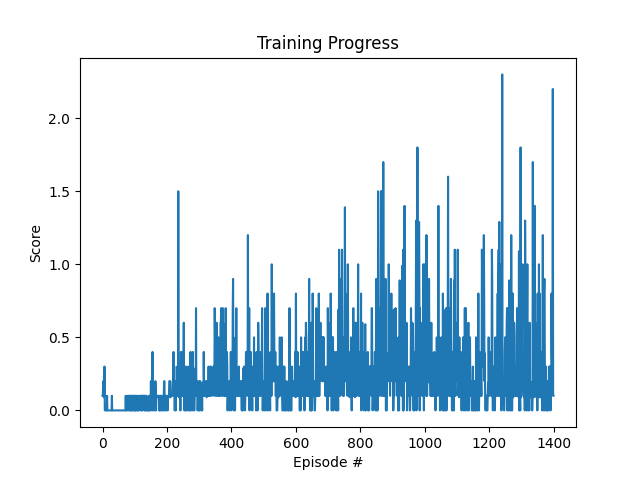
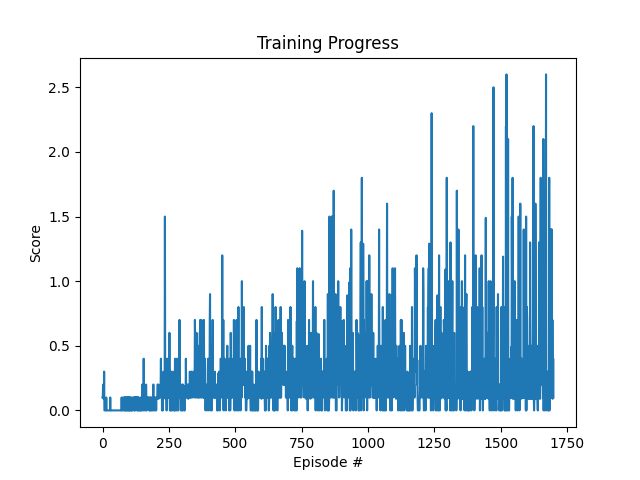
improve readme grammar

diff --git a/README.md b/README.md
@@ -1,6 +1,6 @@
 # Tennis - Reinforcement Learning Project
 
-This repository contains the solution to the Udacity Nanodegree project for the Tennis Navigation environment. The agent is trained using a MADDPGAgent (Multi Agent Deep Deterministic Policy Gradient ) with Replay Buffer, The example provide is for linux OS, you will need to include another file for another OS.
+This repository contains the solution to the Udacity Nanodegree project for the Tennis Navigation environment. The agent is trained using a MADDPG (Multi Agent Deep Deterministic Policy Gradient ) with Replay Buffer, The example provide is for linux OS, you will need to include another file for another OS.
 
 ---
 
@@ -30,13 +30,32 @@ os.environ['PATH'] = f"{os.environ['PATH']}:/home/[USERNAME]/mambaforge/envs/py3
 
 ## Project Details
 
-#### Key Features
+### Environment Overview
+
+In this environment, two agents control rackets to bounce a ball over a net. If an agent hits the ball over the net, it receives a reward of +0.1. If an agent lets a ball hit the ground or hits the ball out of bounds, it receives a reward of -0.01. Thus, the goal of each agent is to keep the ball in play.
+
+The observation space consists of 8 variables corresponding to the position and velocity of the ball and racket. Each agent receives its own, local observation. Two continuous actions are available, corresponding to movement toward (or away from) the net, and jumping.
+
+The task is episodic, and in order to solve the environment, your agents must get an average score of +0.5 (over 100 consecutive episodes, after taking the maximum over both agents). Specifically,
+
+After each episode, we add up the rewards that each agent received (without discounting), to get a score for each agent. This yields 2 (potentially different) scores. We then take the maximum of these 2 scores.
+This yields a single score for each episode.
+The environment is considered solved, when the average (over 100 episodes) of those scores is at least +0.5.
+
+### Solution
+
+This environment has a continuous action space, making it suitable for algorithms like DDPG. Since there are two agents interacting, a multi-agent version of DDPG (MADDPG) is used.
+
+The algorithm is trained in large number of episodes by using NVIDIA RTX 4060Ti
+
+### Key Features
 
 - Algorithm: MADDPG Agent with Replay Buffer for efficient learning.
 
-- Training is done several times to allow me to debug each training, the first training is done in 1250 episodes, this the plot for first 1250 episodes
+- Training is done iteratively to debug each session. The first training session ran for 1250 episodes. The plot for this session
   <img src="https://github.com/vyredo/udacity_tennis/blob/main/Report/scores_plot_prev_1250.png" />
-- The second training's plot
+
+- Similarly, for the second training session: The second training session ran for 10,000 episodes. The plot for this session
   <img src="https://github.com/vyredo/udacity_tennis/blob/main/Report/scores_plot.png" />
 
 - Pretrained Model: The trained model is saved at:
@@ -57,6 +76,8 @@ Report/scores_logs.txt
 ---
 
 ## Training Progress
+
+Overall the training is done in around 10_000 episodes.
 
 Below are the training results from the episode 100 to 1200. The agent achive highest score of 1.5 in these trainings :
 
